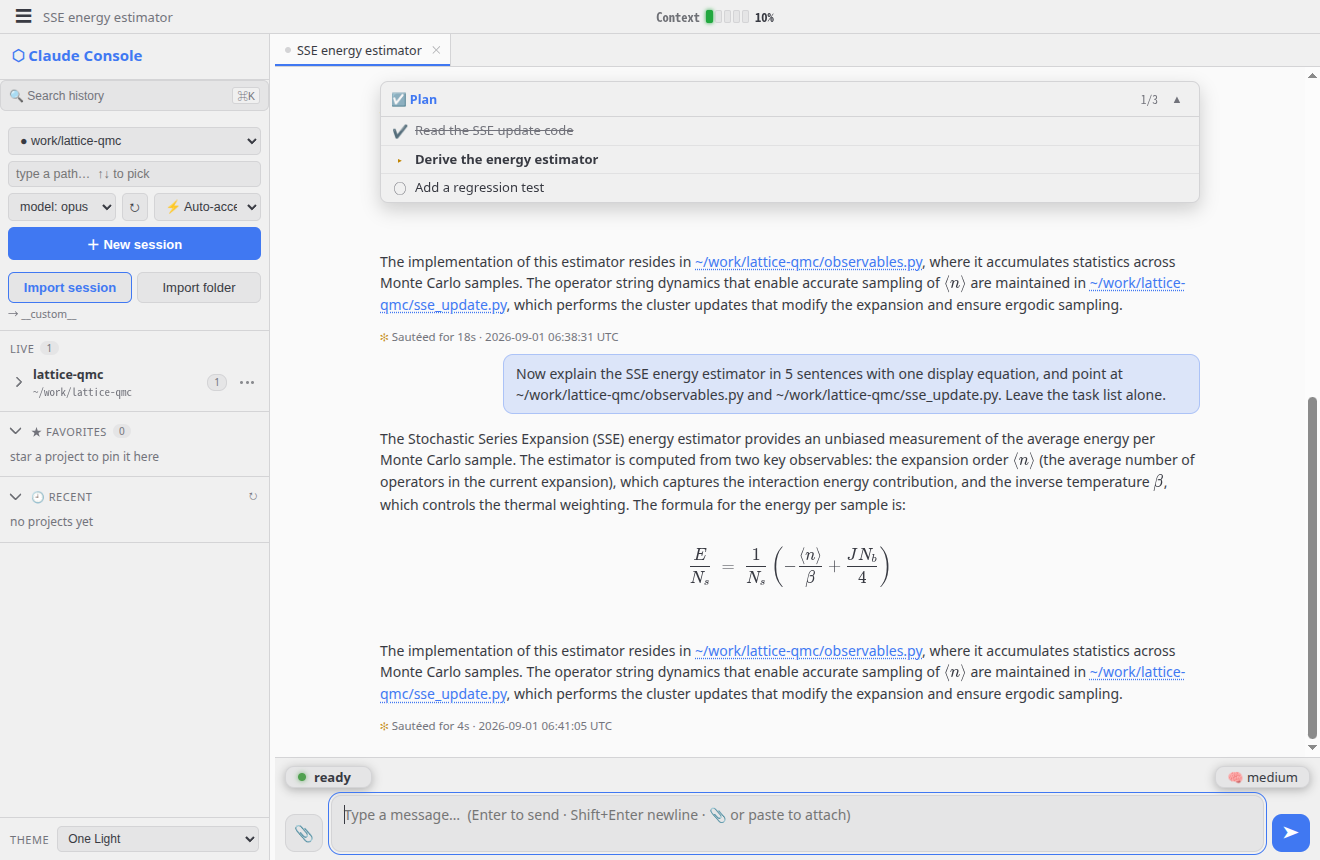
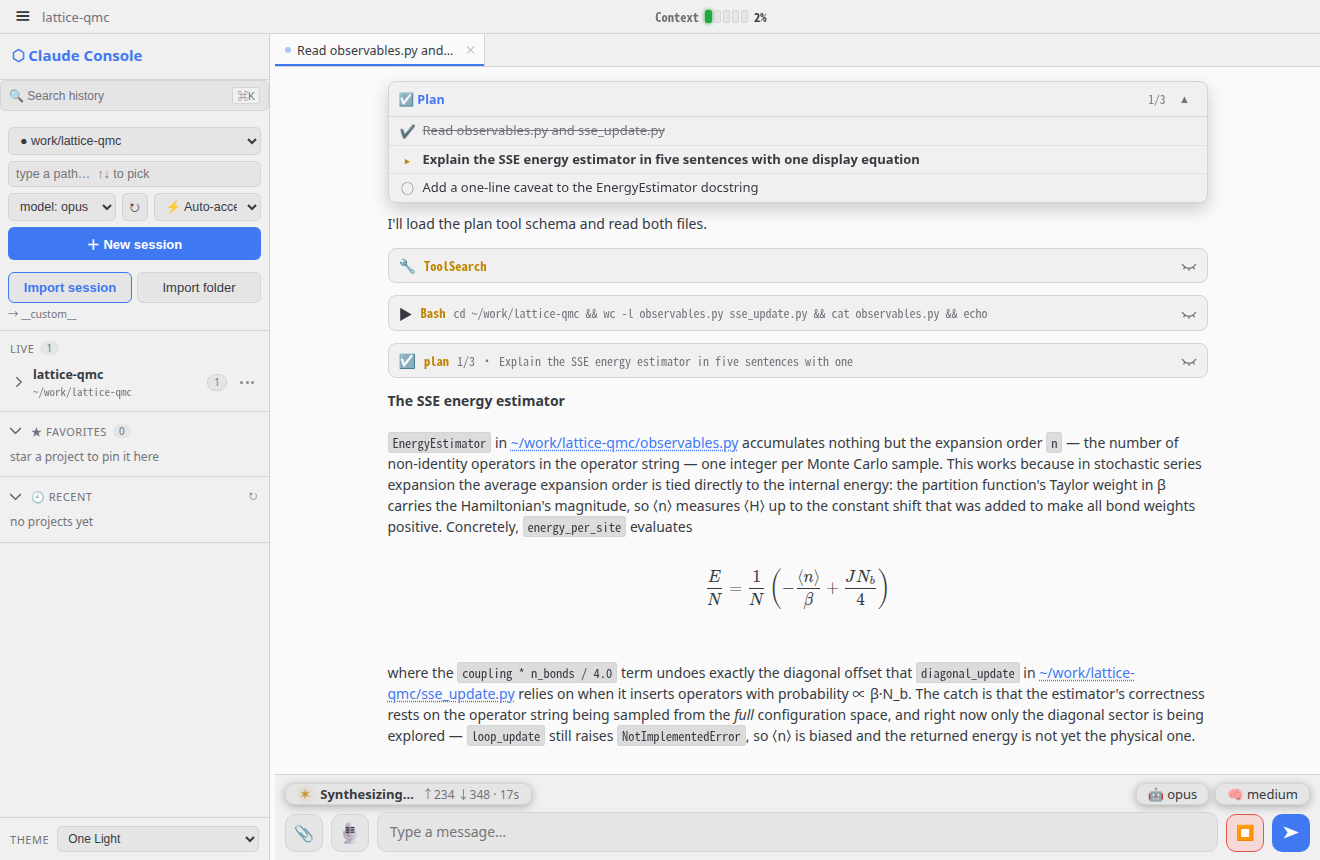
Bring the plan the console pins, instead of waiting for one
The plan dock read the CLI's task list, and CLI 2.1.258 no longer has
one: TaskCreate, TaskUpdate and TaskList are gone from the registry, so
a feature that had worked for months quietly showed nothing. Nothing on
this side was broken, and nothing on this side could fix it either.

So the console brings its own tool now, served in-process over the SDK's
MCP support. It takes the whole list of steps on every call, which makes
the rest fall away: no ids to reconcile, no creation ordinals, every plan
event a complete snapshot. The old TaskCreate/TaskUpdate folding stays,
because transcripts recorded while the CLI still had them are still on
disk and still replay.

A tool the model can see is not a tool the model uses. Measured on one
multi-step task: the tool description alone, zero calls; the protocol
appended to the system prompt, the model quotes it back when asked and
still zero calls; the same text delivered beside the prompt as a
UserPromptSubmit reminder, a plan in one run of two; the same text again
as a PostToolUse reminder on the first tool call of the turn, and the
model stops and writes the plan. That first call is when it is deciding
how many steps there are, which is why the reminder rides there. Keeping
the plan current takes two more: a nudge after four tool calls with a
step still open, and a Stop hook that blocks once while a step is open,
so the panel is never left half-done under a finished answer.
[…]

diff --git a/claude_console.py b/claude_console.py
@@ -47,7 +47,8 @@ try:
     from claude_agent_sdk import (
         query, ClaudeSDKClient, ClaudeAgentOptions, AssistantMessage, UserMessage,
         SystemMessage, ResultMessage, StreamEvent, TextBlock, ThinkingBlock,
-        ToolUseBlock, ToolResultBlock, PermissionResultAllow, PermissionResultDeny)
+        ToolUseBlock, ToolResultBlock, PermissionResultAllow, PermissionResultDeny,
+        tool, create_sdk_mcp_server, HookMatcher)
     HAVE_SDK = True
 except Exception:
     HAVE_SDK = False
@@ -161,9 +162,41 @@ def _strip_injected(s):
     return _INJECTED_RE.sub("", s) if isinstance(s, str) else s
 
 
-# Claude's task list, as the CLI exposes it: TaskCreate {subject, description,
-# activeForm} then TaskUpdate {taskId, status}. There is no whole-plan event, and
-# TaskCreate never reports the id it was given — that comes back only in the tool
+# The plan the console pins above the chat. The CLI used to expose a task list
+# (TaskCreate/TaskUpdate); 2.1.258 dropped it, so the console now brings its own
+# tool into the session over the SDK's in-process MCP server. One tool, one
+# shape: the FULL list of steps on every call, so a plan event is always a
+# snapshot and there is no id bookkeeping. The old CLI traffic is still folded,
+# for transcripts that carry it.
+#
+# A tool the model can see is not a tool the model uses. Measured on one
+# multi-step task: the description alone, zero calls; the protocol appended to
+# the system prompt, the model quotes it back when asked and still zero calls;
+# the same text beside the prompt as a UserPromptSubmit reminder, a plan in one
+# run of two; the same text again as a PostToolUse reminder on the FIRST tool
+# call of the turn, and the model stops and writes the plan. That is the moment
+# it is deciding how many steps there are, so that is where the reminder rides.
+# Keeping the plan CURRENT takes two more: one after a run of tool calls with a
+# step still open, and one at Stop, where an open step blocks the stop once so
+# the panel never lingers half-done.
+PLAN_TOOL = "mcp__console__plan"
+PLAN_PROMPT = (
+    "# Progress panel\n"
+    "The console pins a progress panel above the chat, fed by the `mcp__console__plan` "
+    "tool. Whenever a request takes more than one step, call it first with the full "
+    "list of steps (all pending), again as each step starts (in_progress) and finishes "
+    "(completed), and again if the steps change. Always send the complete list. Keep "
+    "exactly one step in_progress while you work. A single-step request needs no plan.")
+PLAN_NUDGE_EVERY = 4     # tool calls with a step still open before a reminder rides along
+PLAN_SCHEMA = {
+    "type": "object", "required": ["steps"],
+    "properties": {"steps": {"type": "array", "items": {
+        "type": "object", "required": ["title", "status"],
+        "properties": {"title": {"type": "string"},
+                       "status": {"type": "string", "enum": ["pending", "in_progress", "completed"]}}}}}}
+# the CLI's own task list, for transcripts recorded while it still had one:
+# TaskCreate {subject, description, activeForm} then TaskUpdate {taskId, status}.
+# TaskCreate never reports the id it was given; that comes back only in the tool
 # RESULT text, "Task #3 created successfully: Fix lint".
 TASK_ID_RE = re.compile(r"[Tt]ask #(\d+)")
 TASK_FIELDS = ("subject", "description", "activeForm", "status")
@@ -2197,6 +2230,7 @@ class ChatSession:
         self.tasks = {}           # task id -> {subject, description, activeForm, status}
         self._task_open = {}      # TaskCreate tool_use id -> the task, until a result names it
         self._task_seq = 0        # creation ordinal; the fallback id if that text ever changes
+        self._since_plan = 0      # tool calls since the plan was last touched (PostToolUse nudge)
         self.event_seq = 0        # monotonic event number, so a viewer can ask for the gap
 
     def preload(self):
@@ -2233,6 +2267,12 @@ class ChatSession:
             add_dirs=[self.cwd], cli_path=CLAUDE_BIN, include_partial_messages=True,
             max_buffer_size=MAX_BUFFER,
             extra_args={"dangerously-skip-permissions": None})
+        # the console's own plan tool and the three reminders that make it used (PLAN_TOOL)
+        opts.mcp_servers = {"console": self._plan_server()}
+        opts.allowed_tools = [PLAN_TOOL]
+        opts.hooks = {"UserPromptSubmit": [HookMatcher(hooks=[self._hook_prompt])],
+                      "PostToolUse": [HookMatcher(hooks=[self._hook_post_tool])],
+                      "Stop": [HookMatcher(hooks=[self._hook_stop])]}
         if self.model and self.model != "default":
             opts.model = self.model
         if self.effort:
@@ -2244,11 +2284,81 @@ class ChatSession:
         await self.client.connect()
         tornado.ioloop.IOLoop.current().spawn_callback(self._consume)
 
+    def _plan_server(self):
+        """The console's plan tool, served in-process. Its result text carries the
+        next nudge, since that is the one place the model is certain to read."""
+        @tool("plan", "Keep the user's pinned progress panel current. Send the FULL list "
+              "of steps every time the plan changes.", PLAN_SCHEMA)
+        async def plan(args):
+            steps = [x for x in ((args or {}).get("steps") or []) if isinstance(x, dict)]
+            done = sum(1 for x in steps if x.get("status") == "completed")
+            cur = next((x.get("title") for x in steps if x.get("status") == "in_progress"), None)
+            txt = "ok (%d/%d done)" % (done, len(steps))
+            if cur:
+                txt += " · in progress: %s — call plan again when it finishes" % cur
+            return {"content": [{"type": "text", "text": txt}]}
+        return create_sdk_mcp_server(name="console", version="1.0.0", tools=[plan])
+
+    def _plan_open(self):
+        """The step in progress, else the first not completed; None when there is
+        no plan or it is done."""
+        ts = self.plan_tasks()
+        for t in ts:
+            if t.get("status") == "in_progress":
+                return t
+        for t in ts:
+            if t.get("status") != "completed":
+                return t
+        return None
+
+    async def _hook_prompt(self, input_data, tool_use_id, context):
+        """UserPromptSubmit: the plan protocol, beside the prompt (see PLAN_TOOL)."""
+        if ((input_data or {}).get("prompt") or "").lstrip().startswith("/"):
+            return {}
+        return {"hookSpecificOutput": {"hookEventName": "UserPromptSubmit",
+                                       "additionalContext": PLAN_PROMPT}}
+
+    async def _hook_post_tool(self, input_data, tool_use_id, context):
+        """PostToolUse: after PLAN_NUDGE_EVERY calls with a step still open, remind."""
+        if (input_data or {}).get("tool_name") == PLAN_TOOL:
+            self._since_plan = 0
+            return {}
+        self._since_plan += 1
+        cur = self._plan_open()
+        if not cur:
+            # working with no open plan: one nudge, at the first call of the turn,
+            # which is the moment the model can still tell how many steps it has
+            # (a finished plan from an earlier turn does not count as one)
+            if self._since_plan != 1:
+                return {}
+            return {"hookSpecificOutput": {"hookEventName": "PostToolUse", "additionalContext":
+                    "Progress panel: no plan is on the board. If this request takes more than "
+                    "one step, call mcp__console__plan now with the full list of steps."}}
+        if self._since_plan < PLAN_NUDGE_EVERY:
+            return {}
+        self._since_plan = 0
+        return {"hookSpecificOutput": {"hookEventName": "PostToolUse", "additionalContext":
+                "Progress panel: '%s' is still %s. If it is finished, or the plan has changed, "
+                "call mcp__console__plan with the full list before going on."
+                % (cur.get("subject") or "", cur.get("status") or "pending")}}
+
+    async def _hook_stop(self, input_data, tool_use_id, context):
+        """Stop: an open step blocks the stop once, so the panel is settled before
+        the answer stands. stop_hook_active is the CLI's own loop guard."""
+        if (input_data or {}).get("stop_hook_active") or not self._plan_open():
+            return {}
+        return {"decision": "block", "reason":
+                "Before finishing, bring the progress panel up to date: call mcp__console__plan "
+                "with the full list, marking finished steps completed and dropping steps you will "
+                "not do. Then finish."}
+
     async def _can_use_tool(self, tool_name, tool_input, context):
         """SDK permission hook. AskUserQuestion is answered in-band: we surface the
         choices, collect the user's picks, and feed them back via
         updated_input['answers'] so the tool resolves with the real answer. Every
         other tool gets a plain Approve/Deny prompt. Both await the browser."""
+        if tool_name == PLAN_TOOL:       # ours; the panel is the whole point of it
+            return PermissionResultAllow()
         self._aid += 1
         aid = "ap%d" % self._aid
         fut = asyncio.get_running_loop().create_future()
@@ -2681,6 +2791,7 @@ class ChatSession:
             self._tok_up = self._tok_out = self._tok_chars = 0
             self._tok_exact = False
             self._step = 0
+            self._since_plan = 0
             cmd0 = text.strip().split(None, 1)[0] if text.strip() else ""
             self.compacting = (cmd0 == "/compact")
             self._compact_turn = self.compacting
@@ -2878,10 +2989,11 @@ class ChatSession:
                 self.viewers.discard(v)
 
     def _fold_tasks(self, evs):
-        """Fold TaskCreate/TaskUpdate tool traffic into the current task list.
+        """Fold plan traffic into the current task list.
 
-        Codex hands its console a whole plan per update; Claude does not, so the
-        list has to be rebuilt from the individual calls. A create is parked under
+        The console's own tool sends the whole plan per call, so that branch just
+        replaces the list. The CLI's former TaskCreate/TaskUpdate calls, still met
+        in older transcripts, have to be rebuilt piecewise. A create is parked under
         its tool_use id until its own result names it, because the id is assigned
         by the CLI and appears nowhere in the input. When that result text does not
         parse, the id falls back to the creation ordinal — which is what the CLI is
@@ -2895,7 +3007,15 @@ class ChatSession:
                 inp = e.get("input")
                 if not isinstance(inp, dict):
                     continue
-                if e.get("tool") == "TaskCreate":
+                if e.get("tool") == PLAN_TOOL:
+                    steps = inp.get("steps")
+                    if isinstance(steps, list):    # a snapshot: replaces the list wholesale
+                        self.tasks = {str(i + 1): {"subject": str(x.get("title") or ""),
+                                                   "status": str(x.get("status") or "pending")}
+                                      for i, x in enumerate(steps) if isinstance(x, dict)}
+                        self._task_open = {}
+                        changed = True
+                elif e.get("tool") == "TaskCreate":
                     self._task_open[e.get("toolId") or ""] = {
                         f: inp[f] for f in TASK_FIELDS if inp.get(f)}
                 elif e.get("tool") == "TaskUpdate":
@@ -3374,9 +3494,9 @@ header input#cwd{flex:1;min-width:120px;display:none}
   vertical-align:text-bottom;background:var(--acc);opacity:.8;animation:scaretb 1s steps(2,start) infinite}
 @keyframes scaretb{50%{opacity:0}}
 /* Plan dock — the current task list, pinned to the top of the chat viewport so it
-   stays readable while the answer scrolls under it. Claude has no whole-plan
-   event, so the server folds TaskCreate/TaskUpdate into one list (see _fold_tasks)
-   and pushes the whole thing on every change; this only ever paints a snapshot.
+   stays readable while the answer scrolls under it. The server pushes the whole
+   list on every change (the console's own plan tool, see PLAN_TOOL there), so
+   this only ever paints a snapshot.
    Opaque background, because content scrolls behind it once it sticks. */
 .plandock{position:sticky;top:0;z-index:7;max-width:820px;margin:0 auto 10px;
   padding:0 0 8px;background:var(--bg);
@@ -4049,7 +4169,7 @@ a:focus-visible,[tabindex]:focus-visible{outline:2px solid var(--acc);outline-of
       <button id="attachBtn" type="button" title="Attach images or files" aria-label="Attach files" disabled>📎</button>
       <button id="voiceBtn" type="button" title="Voice input" aria-label="Start voice input" disabled><img class="voice-mic-icon" src="/static/icons/fluent-studio-microphone.png" alt=""></button>
       <div id="atac"></div>
-      <textarea id="ta" rows="1" placeholder="Type a message…  (Enter to send · Shift+Enter newline · 📎 or paste to attach)" disabled></textarea>
+      <textarea id="ta" rows="1" placeholder="Type a message…" disabled></textarea>
       <button id="stop" title="interrupt / stop" style="display:none">⏹</button>
       <button id="send" disabled>➤</button>
     </div></div>
@@ -4229,8 +4349,11 @@ function scroll(){if(replaying)return;setTop($('#chat').scrollHeight,true);}
 
 const ICON={Edit:'✏',MultiEdit:'✏',Write:'📝',Bash:'▶',Read:'📖',Glob:'🔍',Grep:'🔍',Task:'🤖',
   WebFetch:'🌐',WebSearch:'🌐',TodoWrite:'☑',NotebookEdit:'📓',
-  TaskCreate:'☑',TaskUpdate:'☑',TaskList:'☑',TaskGet:'☑'};
+  TaskCreate:'☑',TaskUpdate:'☑',TaskList:'☑',TaskGet:'☑',mcp__console__plan:'☑'};
+function toolLabel(t){return t==='mcp__console__plan'?'plan':t;}   /* the console's own tool, without its MCP prefix */
 function primaryArg(i){if(!i)return '';if(typeof i==='string')return i.slice(0,80);
+  if(Array.isArray(i.steps)){const n=i.steps.length,d=i.steps.filter(x=>x&&x.status==='completed').length,c=i.steps.find(x=>x&&x.status==='in_progress');
+    return d+'/'+n+(c?' · '+(''+(c.title||'')).slice(0,60):'');}   /* plan snapshot: progress + the open step */
   if(i.file_path)return i.file_path.split('/').slice(-2).join('/');
   if(i.command)return (''+i.command).split('\n')[0].slice(0,90);
   if(i.subject)return i.subject.slice(0,80);   /* TaskCreate: the task, not its description */
@@ -4359,9 +4482,9 @@ function addRecap(t){const s=atBottom();const d=document.createElement('div');d.
   d.innerHTML='<span class="rk">※ recap:</span> <span class="rt"></span>';
   d.querySelector('.rt').textContent=t;stream.appendChild(d);if(s)scroll();}
 /* ── plan dock ────────────────────────────────────────────────────────────────
-   Claude exposes its task list only as individual TaskCreate/TaskUpdate calls, so
-   the server folds them and pushes the WHOLE list on every change. That is what
-   makes this simple: there is no incremental state to keep in sync here, every
+   The plan comes from the console's own tool (PLAN_TOOL on the server), which
+   sends the whole list per call, and the server pushes the WHOLE list on every
+   change. That is what makes this simple: there is no incremental state here, every
    `plan` event is a complete snapshot, and replaying a history just converges on
    whatever the last one said. The dock is sticky rather than inline because a plan
    is a statement about the present, and inline it would scroll away into history. */
@@ -4399,7 +4522,10 @@ function schedulePlanHide(){
   if(replaying||!planAllDone(planTasks))return;
   const owner=sid;
   planHideT=setTimeout(()=>{planHideT=0;
-    if(sid===owner&&planAllDone(planTasks)){const h=$('#planDock');if(h)h.hidden=true;}},PLAN_HIDE_MS);}
+    /* drop the list, not just the dock: keeping a retired plan in memory means the
+       next renderPlan (folding it, restoring the tab) brings the finished thing
+       back, and folded it reads "no active task" */
+    if(sid===owner&&planAllDone(planTasks))clearPlan();},PLAN_HIDE_MS);}
 function setPlan(ts){planTasks=Array.isArray(ts)?ts:[];renderPlan();schedulePlanHide();}
 function clearPlan(){if(planHideT){clearTimeout(planHideT);planHideT=0;}
   planTasks=[];planCollapsed=false;const h=$('#planDock');if(h){h.hidden=true;h.innerHTML='';}}
@@ -4444,7 +4570,7 @@ function makeToolGroup(first,second,key){
   const ev=first._ev||second._ev||{};
   const g=document.createElement('div');g.className='toolgroup';g.dataset.tkey=key;
   g.innerHTML='<div class="tgh"><span class="ico">'+(ICON[ev.tool]||'🔧')+'</span>'+
-    '<span class="tn">'+esc(ev.tool||'tool')+'</span><span class="tgcount"></span>'+
+    '<span class="tn">'+esc(toolLabel(ev.tool||'tool'))+'</span><span class="tgcount"></span>'+
     '<span class="tp"></span><span class="tgstate"></span>'+TOOL_EYE+'</div><div class="tgb"></div>';
   first.replaceWith(g);                      /* the group takes the first card's place */
   const body=g.querySelector('.tgb');
@@ -4464,7 +4590,7 @@ function placeToolCard(c,ev){
 const TOOL_EYE='<span class="eye"><svg class="e-shut" viewBox="0 0 24 24" fill="none" stroke="currentColor" stroke-width="2" stroke-linecap="round" stroke-linejoin="round"><path d="M2 11c3 4 7 6 10 6s7-2 10-6"/><line x1="5.5" y1="15.5" x2="4.3" y2="18"/><line x1="12" y1="17.5" x2="12" y2="20"/><line x1="18.5" y1="15.5" x2="19.7" y2="18"/></svg><svg class="e-open" viewBox="0 0 24 24" fill="none" stroke="currentColor" stroke-width="2" stroke-linecap="round" stroke-linejoin="round"><path d="M1 12s4-8 11-8 11 8 11 8-4 8-11 8-11-8-11-8z"/><circle cx="12" cy="12" r="3"/></svg></span>';
 function addTool(ev){const s=atBottom();const c=document.createElement('div');c.className='tool';
   const cn=counts(ev);const cnt=cn?('<span class="a">+'+cn.a+'</span> <span class="d">−'+cn.d+'</span>'):'';
-  c.innerHTML='<div class="th"><span class="ico">'+(ICON[ev.tool]||'🔧')+'</span><span class="tn">'+esc(ev.tool)+'</span>'+
+  c.innerHTML='<div class="th"><span class="ico">'+(ICON[ev.tool]||'🔧')+'</span><span class="tn">'+esc(toolLabel(ev.tool))+'</span>'+
     '<span class="tp">'+esc(primaryArg(ev.input))+'</span><span class="cnt">'+cnt+'</span>'+TOOL_EYE+'</div>'+
     '<div class="tb"><div class="res"></div></div>';
   c._ev=ev;   /* lazy: build the (maybe large) body only on first expand */

diff --git a/README.md b/README.md
@@ -40,12 +40,17 @@ which is the whole point.
   bursts, so the text is played out of a small jitter buffer at a steady rate
   instead of arriving a sentence and a half at a time; formatting and math are
   typeset once, when the block completes, so nothing reflows mid-sentence.
+  Scrolling up while the answer is being written keeps the view where you put
+  it — the tail is followed until you leave it, and again once you come back.
 - **Folded tool runs** — consecutive calls to the *same* tool collapse into one
   row (`▶ Bash ×5  ruff check .  1 failed`) that expands to the individual
   cards. Anything in between — an answer, an edit, an approval — ends the run.
-- **Plan dock** — when Claude keeps a task list, it is pinned above the chat
-  with the current step, a progress count, and a fold to just the active task.
-  It retires itself a couple of seconds after the last task is done.
+- **Plan dock** — a task list pinned above the chat with the current step, a
+  progress count, and a fold to just the active task; it retires itself a
+  couple of seconds after the last step is done. The console brings the tool
+  behind it into the session (the CLI's own task list came and went with
+  versions) and reminds the model to keep it current, so a plan is never left
+  half-done on screen.
 - **LaTeX rendering** — `$…$`, `$$…$$`, `\(…\)`, `\[…\]` in replies render with
   KaTeX (vendored, offline).
 - **Clickable file paths** — a path in a reply (`~/work/lattice-qmc/observables.py`)
@@ -113,18 +118,23 @@ which is the whole point.
 - **Chinese comes out Simplified** — optionally normalized with OpenCC, which
   converts vocabulary and not just characters (`軟體` → `软件`, `記憶體` → `内存`),
   so Taiwanese dictation does not leave Taiwanese terms in the text.
-- **Model** — a `🤖` pill showing the live session's model; one click switches
-  it (from the next turn, no relaunch). For a single message, start it with
-  `@haiku …`, `@sonnet …`, `@opus …` or `@fable …` (any fragment of a model id):
-  that turn runs on that model, long-window `[1m]` variant when there is one,
-  and the session switches back when it ends. An exact id is used as typed, so
-  `@claude-sonnet-5` asks for the plain window. Typing `@` opens a list of what
-  each token resolves to (↑/↓ pick, Tab or Enter insert, Esc closes). Cheap tasks need not cost Fable prices,
-  and there is nothing to remember to undo. A token that names no model is sent
-  as ordinary text, with a note saying so.
+- **Model** — a `🤖` pill showing the live session's model, one click to change
+  it (from the next turn, nothing relaunches). A single message can go to another
+  model on its own: start it with `@haiku …`, `@sonnet …`, `@opus …` or
+  `@fable …` and that turn runs there, then the session switches back by itself.
+  A cheap question need not cost what the session costs, and there is nothing to
+  remember to undo. Typing `@` opens a list of what each token resolves to
+  (↑/↓ pick, Tab or Enter insert, Esc closes). Any fragment of a model id works
+  and is matched against the live list, so `@fable` still means the newest fable
+  a year from now; the long-window `[1m]` variant is preferred, since these are
+  asked from inside long sessions where the plain window would only refuse. An
+  exact id is used as typed, which is how to ask for the plain window. A token
+  that names no model is sent as ordinary text, with a note saying so.
 - **Thinking effort** — a `🧠` pill (low / medium / high / xhigh / max) to set
-  reasoning depth, switchable on the fly (`/effort` goes down to the live
-  session; nothing relaunches).
+  reasoning depth, switchable on the fly: `/effort` goes down to the live
+  session, so nothing relaunches and no history is replayed. A sixth setting,
+  **ultracode**, runs at xhigh and opts every message into multi-agent
+  orchestration.
 - Pick **project dir**, **model** (`↻` refreshes the list from the API) and
   **permission mode** (⚡ Auto-accept / 🔐 Approve / 📋 Plan / ⏩ Full auto) when
   starting a session, or change them per session afterwards.
@@ -221,6 +231,9 @@ The legacy `AGENTLENS_*` names are still honored as a fallback.
   Claude only when you send the draft you edited.
 - Voice icon from Microsoft's [Fluent Emoji](https://github.com/microsoft/fluentui-emoji)
   (MIT), under `static/icons/`.
+- The page carries the hash of the code it was served with and reloads itself
+  when the server reports a different one, so an open tab is never left running
+  yesterday's script against today's server. Drafts are saved first.
 - Very long conversations keep a bounded window of *rendered* messages per tab;
   older ones fold into a marker that links to the history search. Nothing is
   deleted — the full transcript stays on disk under `~/.claude/projects`.

diff --git a/README.zh-CN.md b/README.zh-CN.md
@@ -35,12 +35,14 @@
   标签页查看整个工作区。
 - **流式回答** —— 回复边写边显示。CLI 是成串爆发式输出的，所以文本经过一个小的
   抖动缓冲后以匀速播出，而不是一次蹦出一句半；格式和公式只在整块完成时排版一次，
-  句子中途不会重排。
+  句子中途不会重排。出字过程中向上滚动，视图就停在你放的位置 —— 跟随尾部只到你离开
+  为止，回到底部又会重新跟随。
 - **工具调用折叠** —— 连续调用*同一个*工具会合并成一行
   （`▶ Bash ×5  ruff check .  1 failed`），展开即可看到各张卡片。中间只要插入
   任何别的东西 —— 一段回答、一次编辑、一次审批 —— 这一串就结束。
-- **Plan 悬停区** —— 当 Claude 维护任务列表时，它会钉在对话上方，显示当前步骤、
-  进度计数，并可折叠到只剩当前任务。最后一项任务完成几秒后它自行退场。
+- **Plan 悬停区** —— 钉在对话上方的任务列表，显示当前步骤、进度计数，并可折叠到只剩
+  当前任务；最后一步完成几秒后自行退场。背后的工具由控制台自己带进 session（CLI 自带
+  的任务列表随版本时有时无），并提醒模型随时更新，所以计划不会停在做了一半的样子。
 - **LaTeX 渲染** —— 回复中的 `$…$`、`$$…$$`、`\(…\)`、`\[…\]` 由 KaTeX 渲染
   （已内置，离线可用）。
 - **可点击的文件路径** —— 回复里的路径（`~/work/lattice-qmc/observables.py`）
@@ -93,14 +95,16 @@
 - **中文输出为简体** —— 可选地用 OpenCC 规范化，它转换的是词汇而不只是字形
   （`軟體` → `软件`，`記憶體` → `内存`），所以台湾口音的口述不会在文中留下台湾用语。
 - **模型** —— 一个 `🤖` 药丸显示当前 session 的模型，点一下即可切换（下一轮生效，
-  不重启）。只想让某一条消息用别的模型，就以 `@haiku …`、`@sonnet …`、`@opus …` 或
-  `@fable …` 开头（模型 id 的任意片段都行）：这一轮用该模型，有长窗口 `[1m]` 变体的
-  直接用长窗口，结束后自动切回。完整 id 按原样使用，所以 `@claude-sonnet-5` 就是要
-  普通窗口。输入 `@` 会弹出补全列表，标明每个写法解析到哪个模型（↑/↓ 选择，Tab 或
-  Enter 填入，Esc 关闭）。简单任务不必付 Fable 的价钱，也不用记着切回来。`@` 后面不是模型名
-  的，原样作为文本发送，并给出提示。
+  不重启）。某一条消息也可以单独走别的模型：以 `@haiku …`、`@sonnet …`、`@opus …`
+  或 `@fable …` 开头，这一轮就用那个模型，结束后自动切回。简单问题不必付这个 session
+  的价钱，也不用记着切回来。输入 `@` 会弹出补全列表，标明每个写法解析到哪个模型
+  （↑/↓ 选择，Tab 或 Enter 填入，Esc 关闭）。模型 id 的任意片段都行，且与实时模型列表
+  匹配，所以一年以后 `@fable` 仍然指最新的 fable；有长窗口 `[1m]` 变体的优先用长窗口
+  —— 这类消息通常是在长 session 里发的，普通窗口只会被拒。完整 id 按原样使用，这就是
+  要普通窗口的写法。`@` 后面不是模型名的，原样作为文本发送，并给出提示。
 - **思考深度** —— 一个 `🧠` 药丸（low / medium / high / xhigh / max）用于设定推理
-  深度，可随时切换（`/effort` 直接发给运行中的 session，不重启）。
+  深度，可随时切换：`/effort` 直接发给运行中的 session，不重启、不重放历史。还有第六
+  档 **ultracode**，以 xhigh 运行，并让每条消息都启用多代理编排。
 - 新建 session 时可选择**项目目录**、**模型**（`↻` 从 API 刷新列表）和**权限模式**
   （⚡ Auto-accept / 🔐 Approve / 📋 Plan / ⏩ Full auto），之后也可按 session 修改。
 
@@ -189,6 +193,8 @@ python claude_console.py
   删除。转写文本只有在你发送自己编辑过的草稿时才会到达 Claude。
 - 语音图标来自 Microsoft 的 [Fluent Emoji](https://github.com/microsoft/fluentui-emoji)
   （MIT），位于 `static/icons/`。
+- 页面带着自己被服务时的代码哈希，服务端报告的哈希不同就自行重新加载，因此打开着的
+  标签页不会拿昨天的脚本跑今天的服务端。重新加载前会先保存草稿。
 - 很长的对话在每个标签页只保留有限窗口的*已渲染*消息；更早的会折叠成一个标记，
   链接到历史搜索。没有任何东西被删除 —— 完整记录仍在磁盘上的 `~/.claude/projects`。
 
